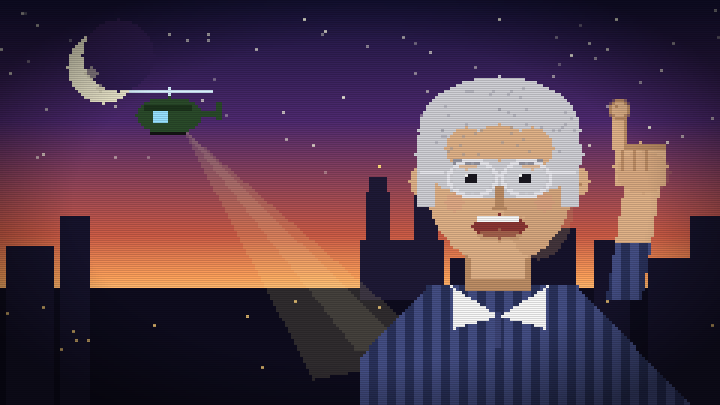
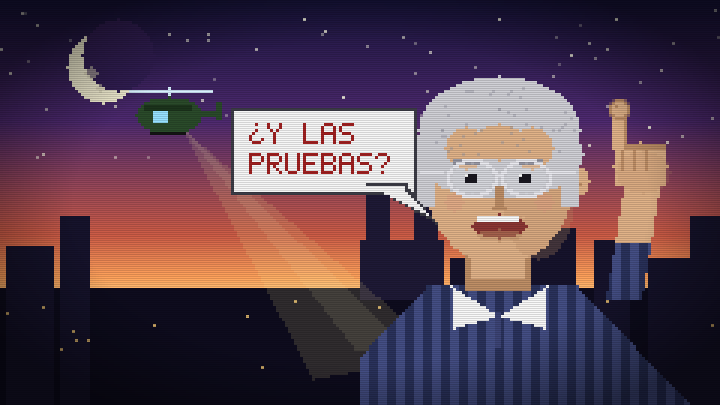
Agrega globito "¿y las pruebas?" a la portada y subtítulo a la pantalla de inicio
- La portada ahora incluye un globo de diálogo pixel-art "¿Y LAS PRUEBAS?"
  apuntando a Rocha (horneado en la imagen para alinear en cualquier pantalla)
- Se reincorpora el subtítulo "OPERATIVO CULIACÁN" bajo el título de inicio
- Caché del service worker a rocha-v3 para refrescar la portada en PWAs

https://claude.ai/code/session_0129aTqzRB2VofgqxkeeoDG6

Changed region(s): [[0.3056, 0.2667, 0.6111, 0.563]]

diff --git a/index.html b/index.html
@@ -55,6 +55,7 @@ canvas{display:block;image-rendering:pixelated;image-rendering:crisp-edges;backg
   background:linear-gradient(180deg,rgba(8,12,12,.12) 0%,rgba(8,12,12,.30) 42%,rgba(8,12,12,.9) 100%),url('cover.png') center/cover no-repeat;background-color:#0c160c}
 #startTop{display:flex;flex-direction:column;gap:3px}
 #startScreen h1{font-size:34px;text-shadow:3px 3px 0 #000,-2px -2px 0 #000,0 0 18px rgba(255,170,0,.55)}
+#startScreen h2{color:#a6e6bd;text-shadow:1px 1px 2px #000,0 0 8px rgba(0,0,0,.6);margin-top:1px}
 #startTagline{font-size:12px;color:#ffe9b0;text-shadow:1px 1px 2px #000;margin:0 auto;max-width:440px}
 #startPanel{display:flex;flex-direction:column;align-items:center;gap:7px;width:100%;max-width:520px;margin:0 auto;
   background:linear-gradient(180deg,rgba(8,14,10,0),rgba(8,14,10,.5));padding:6px 8px 2px;border-radius:8px}
@@ -108,6 +109,7 @@ canvas{display:block;image-rendering:pixelated;image-rendering:crisp-edges;backg
   <div class="screen" id="startScreen">
     <div id="startTop">
       <h1>¿Y EL ROCHA?</h1>
+      <h2>OPERATIVO CULIACÁN</h2>
       <p id="startTagline">Persíguelo en helicóptero por Culiacán · 3 capturas para ganar</p>
     </div>
     <div id="startPanel">

diff --git a/sw.js b/sw.js
@@ -1,4 +1,4 @@
-const CACHE='rocha-v2';
+const CACHE='rocha-v3';
 const ASSETS=['./','./index.html','./manifest.webmanifest','./icon-192.png','./icon-512.png','./icon-180.png','./cover.png'];
 
 self.addEventListener('install',e=>{
